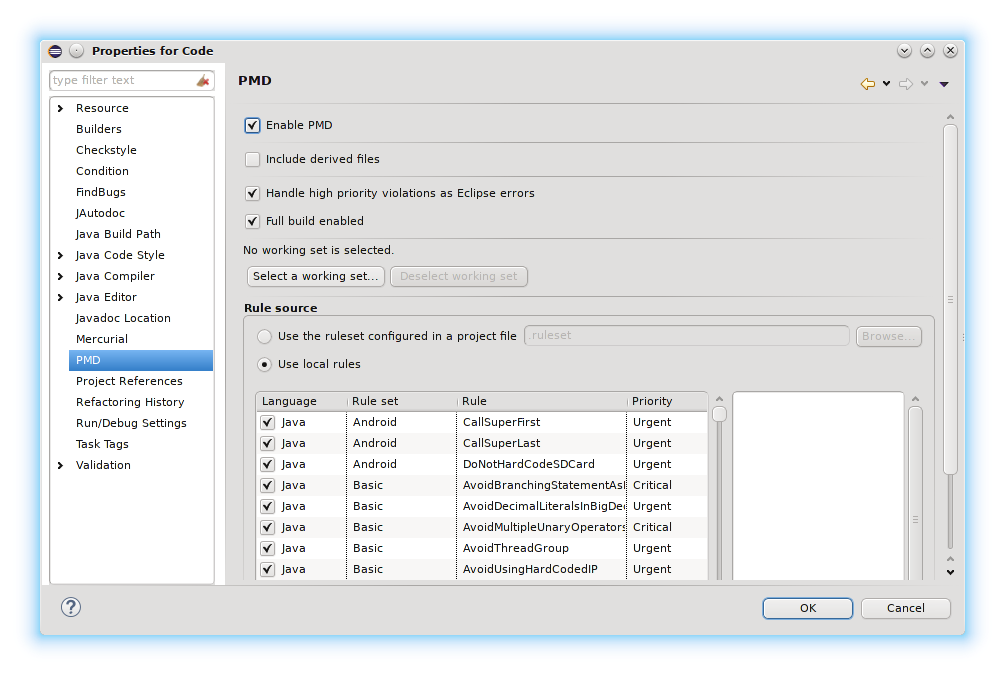
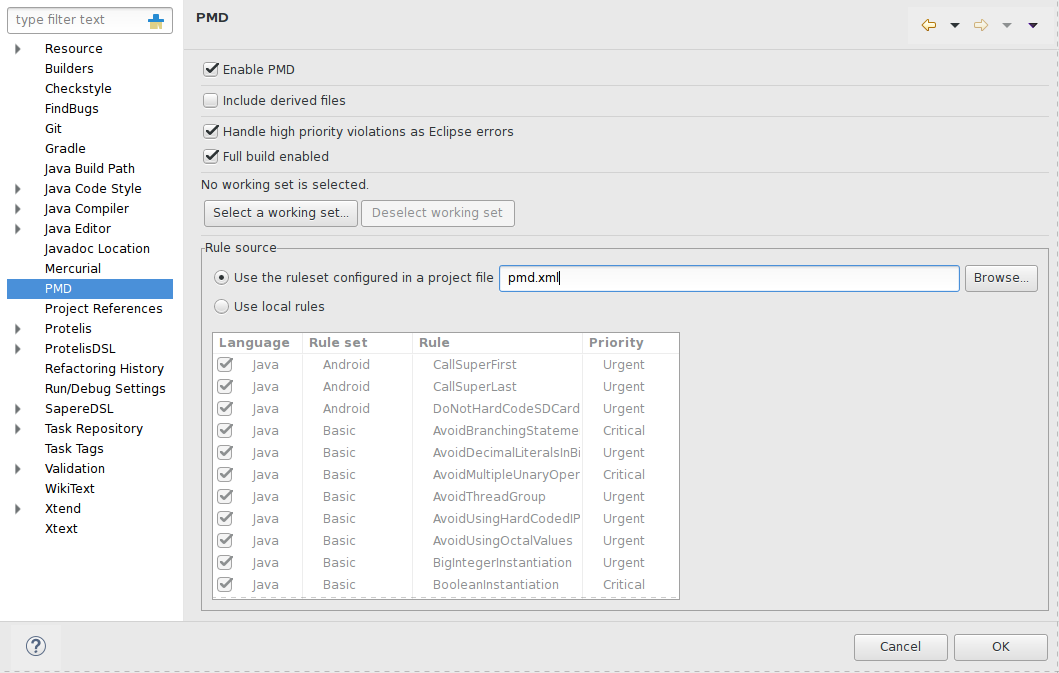
Refactor Lab06 intro, ready for next year

diff --git a/slides/06/06-Static-analysis-advanced-collections.tex b/slides/06/06-Static-analysis-advanced-collections.tex
@@ -57,20 +57,51 @@
 	}
 }
 
+\begin{frame}{Configurazione globale vs. locale}
+  I code checkers che vedremo sono eseguibili anche stand-alone, oltre ad avere plug-in per poter esser integrati negli IDE più diffusi. Abbiamo Eclipse come IDE di riferimento, e vedremo come operare dentro questo ambiente.
+  \begin{block}{Code checkers in Eclipse}
+    I plugin che vedremo possono operare in due modalità: globale o per-progetto
+  \end{block}
+\end{frame}
+
+\begin{frame}{Configurazione globale}
+  La configurazione globale viene applicata a \textbf{tutti} i progetti del workspace, a meno che non sia sovrascritta localmente (non sempre è possibile).
+  \begin{block}{Caratteristiche}
+    \begin{itemize}
+      \item Veloce da configurare: si configura una volta, e i settaggi sono applicati su tutti i progetti
+      \item Poco portabile: se inviamo il progetto ad un collaboratore, questi settaggi \textbf{non} saranno inviati: c'è il rischio di inconsistenze
+      \item Ottimo da usare quando si hanno molti progetti nel workspace con la stessa configurazione, e si sviluppa da soli.
+    \end{itemize}
+  \end{block}
+\end{frame}
+
+\begin{frame}{Configurazione per-progetto}
+  La configurazione locale va messa a punto singolarmente per ciascun progetto. Bisogna verificare che quella globale non la stia sovrascrivendo.
+  \begin{block}{Caratteristiche}
+    \begin{itemize}
+      \item Tediosa da configurare, specialmente se si hanno molti progetti e la configurazione è uguale per tutti
+      \item Alta flessibilità: si possono specificare regole diverse per progetti diversi
+      \item Alta portabilità: se si invia il progetto ad un collaboratore, questi settaggi vengono mantenuti
+      \item Ottimo da usare quando si hanno pochi progetti, o ai progetti serve una configurazione diversa, oppure quando si lavora in modo collaborativo
+    \end{itemize}
+  \end{block}
+\end{frame}
+
+
 \subsection{FindBugs}
 
 \fr{FindBugs} {
-	\bl{Cos'è} {
-		FindBugs si occupa di trovare potenziali bug nel sorgente, ad esempio:
-		\iz {
-			\item Uguaglianza esatta fra \texttt{float} o \texttt{double}
-			\item Utilizzo di \texttt{==} invece di \texttt{equals()}
-			\item Mancato retain a runtime di annotazioni
-			\item Uso errato di meccanismi di sincronizzazione
-			\item Vulnerabilità di sicurezza
-			\item Tanti altri! Si veda: \url{http://findbugs.sourceforge.net/bugDescriptions.html}
-		}
-	}
+  \bl{Cos'è} {
+      FindBugs scansiona il bytecode generato dal compilatore, e dalla sua analisi cerca di scoprire potenziali bug nel sorgente, ad esempio:
+      \iz {
+        \item Uguaglianza esatta fra \texttt{float} o \texttt{double}
+        \item Utilizzo di \texttt{==} invece di \texttt{equals()}
+        \item Mancato retain a runtime di annotazioni
+        \item Uso errato di meccanismi di sincronizzazione
+        \item Vulnerabilità di sicurezza
+        \item Tanti altri! Si veda: \url{http://findbugs.sourceforge.net/bugDescriptions.html}
+      }
+  }
 }
 
 \fr{FindBugs} {
@@ -90,8 +121,9 @@
 }
 
 \fr{FindBugs --- Configurazione del progetto} {
-	\centering
-	\includegraphics[width=0.99\textwidth]{img/findbugsproj}
+  In FindBugs, la configurazione locale \textbf{è più prioritaria} di quella globale.
+  \centering
+  \includegraphics[width=0.9\textwidth]{img/findbugsproj}
 }
 
 \subsection{PMD e CPD}
@@ -108,7 +140,7 @@
 	}
 }
 
-\fr{PMD} {
+\fr{PMD: Installazione} {
 	\bl{Plugin Eclipse --- installazione} {
 		Il marketplace contiene due plugin concorrenti: meglio eseguire l'installazione manuale.
 		\iz {
@@ -144,8 +176,9 @@
 }
 
 \fr{PMD --- Configurazione globale} {
-	\centering
-	\includegraphics[width=0.99\textwidth]{img/pmdconf1}
+  In PMD, la configurazione globale \textbf{sovrascrive} quella locale: disattivate ``Use global rule management'' se sviluppate un progetto su più sistemi
+  \centering
+  \includegraphics[width=0.9\textwidth]{img/pmdconf1}
 }
 
 \fr{PMD --- Configurazione globale} {
@@ -154,8 +187,9 @@
 }
 
 \fr{PMD --- Configurazione del progetto} {
+	\textcolor{red}{ATTENZIONE}: Prima di attivare la configurazione locale, \textbf{assicurarsi} che il file pmd.xml sia stato copiato all'interno della cartella del progetto!
 	\centering
-	\includegraphics[width=0.99\textwidth]{img/pmdproj}
+	\includegraphics[width=0.9\textwidth]{img/pmdproj}
 }
 
 
@@ -176,35 +210,35 @@
 
 \fr{Checkstyle} {
 	\bl{Plugin Eclipse --- installazione} {
-		Può essere installato dal marketplace di Eclipse cercando ``checkstyle plug-in''. Se si cerca solo ``checkstyle'', il primo risultato \textbf{non} è quello corretto. Il logo corretto presenta la scritta ``eclipse-cs''.
+		Può essere installato dal marketplace di Eclipse cercando ``checkstyle''.
+		
+		\textcolor{red}{Attenzione}: il primo risultato potrebbe \textbf{non} essere quello corretto. Il logo corretto presenta la scritta ``eclipse-cs''.
 
 		Al termine dell'installazione, verrà installato un menu di opzioni globali, un menu di opzioni per progetto ed un menu contestuale.
 	}
 }
 
-\fr{Checkstyle --- Configurazione globale} {
-	La configurazione di default di Checkstyle è inadatta all'uso con Eclipse. C'è una configurazione built-in adatta ad Eclipse ma è eccessivamente pedante. Vi forniremo noi un file di configurazione per Checkstyle:
-	\iz{
-		\item Dalle proprietà di Eclipse, clicki sul menu Checkstyle
-		\item Si vada su Rule Configuration
+\fr{Checkstyle --- Configurazione} {
+	La configurazione di default di Checkstyle è eccessivamente pedante. Vi forniremo noi un file di configurazione idoneo:
+	\en{
+		\item Dalle proprietà di progetto, si clicki sul menu Checkstyle
+		\item Si selezioni ``Local Check Configurations''
 		\item Si scelga ``New''
 		\item Si scelga ``Project Relative Configuration'' (mai usare path assoluti!)
 		\item Utilizzando ``Browse...'' si punti al file di configurazione, che deve esser copiato nel progetto
 		\item Si dia un nome e si prema ``OK''
-		\item Si selezioni dalla lista la nuova Check configuration
-		\item Si faccia click ``Set as Default''
+		\item Si vada su ``Main''
+		\item Si selezioni dal menu la nuova Check configuration
+		\item Si attivi ``Checkstyle active for this project'' e ``Use simple configuration''
+		\item ``OK''
 	}
+	\footnotesize
+	Nota: la configurazione globale è molto simile, si ripetano gli step andando dal menu  Windows $\rightarrow$ Preferences $\rightarrow$ Java $\rightarrow$ Code style $\rightarrow$ Formatter 
 }
 
-\fr{Checkstyle --- Configurazione globale} {
-    Windows $\rightarrow$ Preferences $\rightarrow$ Java $\rightarrow$ Code style $\rightarrow$ Formatter
+\fr{Checkstyle --- Configurazione per-progetto} {
 	\centering
-	\includegraphics[width=0.9\textwidth]{img/checkstyleconf}
-}
-
-\fr{Checkstyle --- Configurazione del progetto} {
-	\centering
-	\includegraphics[width=0.99\textwidth]{img/checkstyleproj}
+	\includegraphics[width=0.7\textwidth]{img/checkstyle}
 }
 
 \section{Coding style: configurazione IDE Eclipse}
